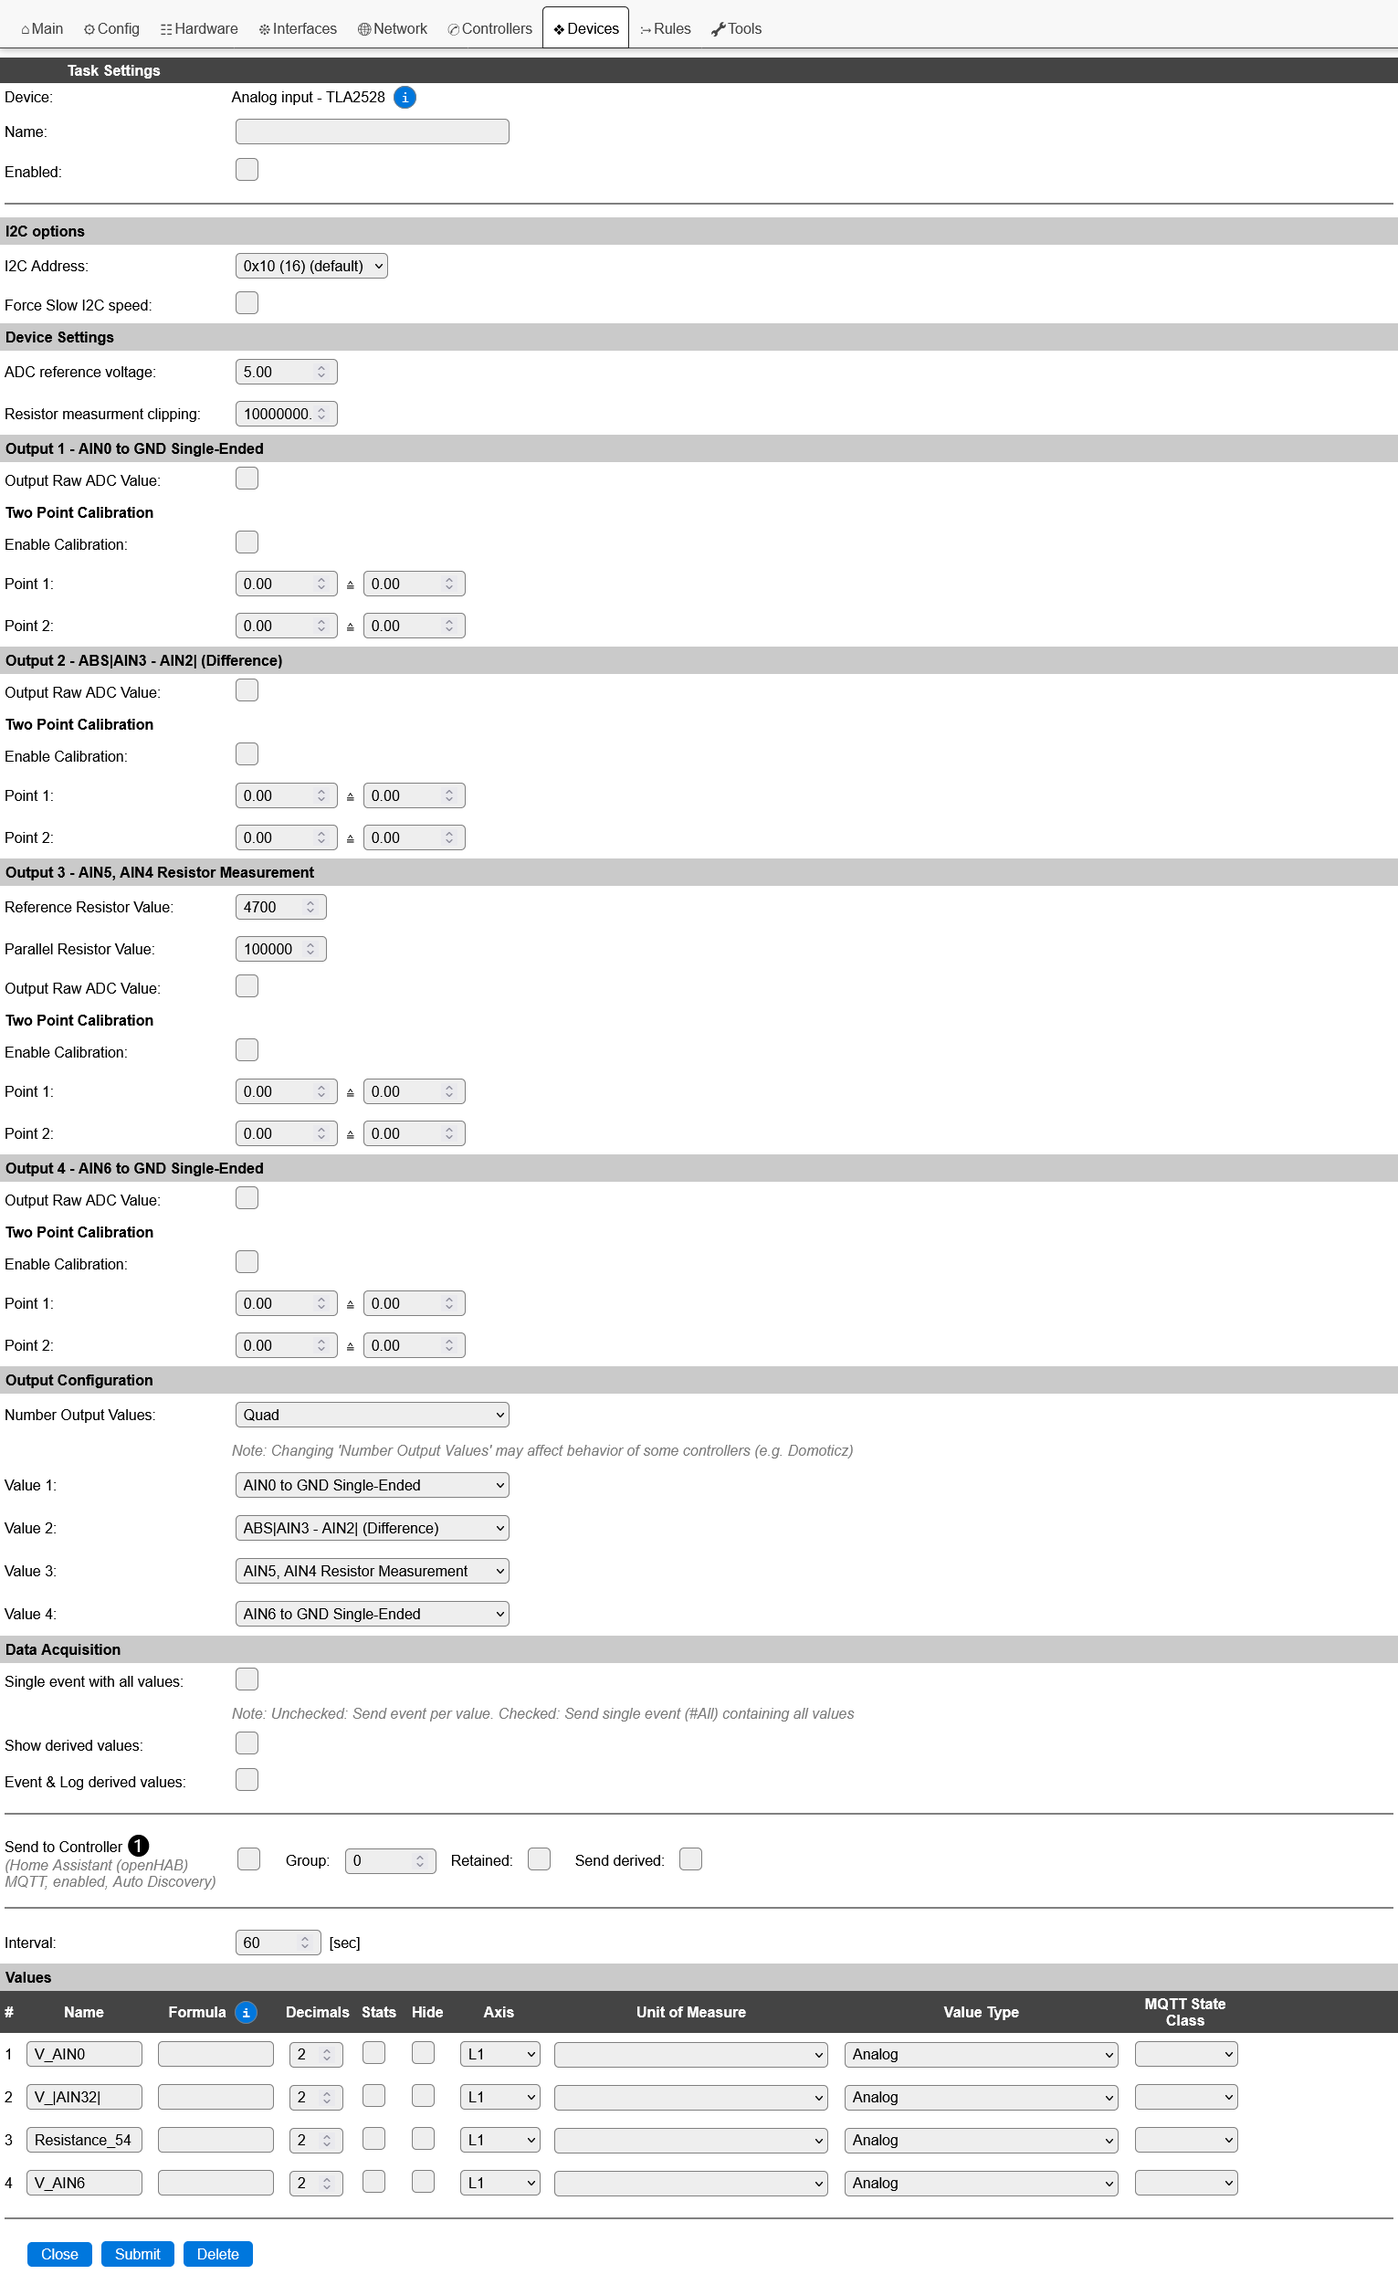
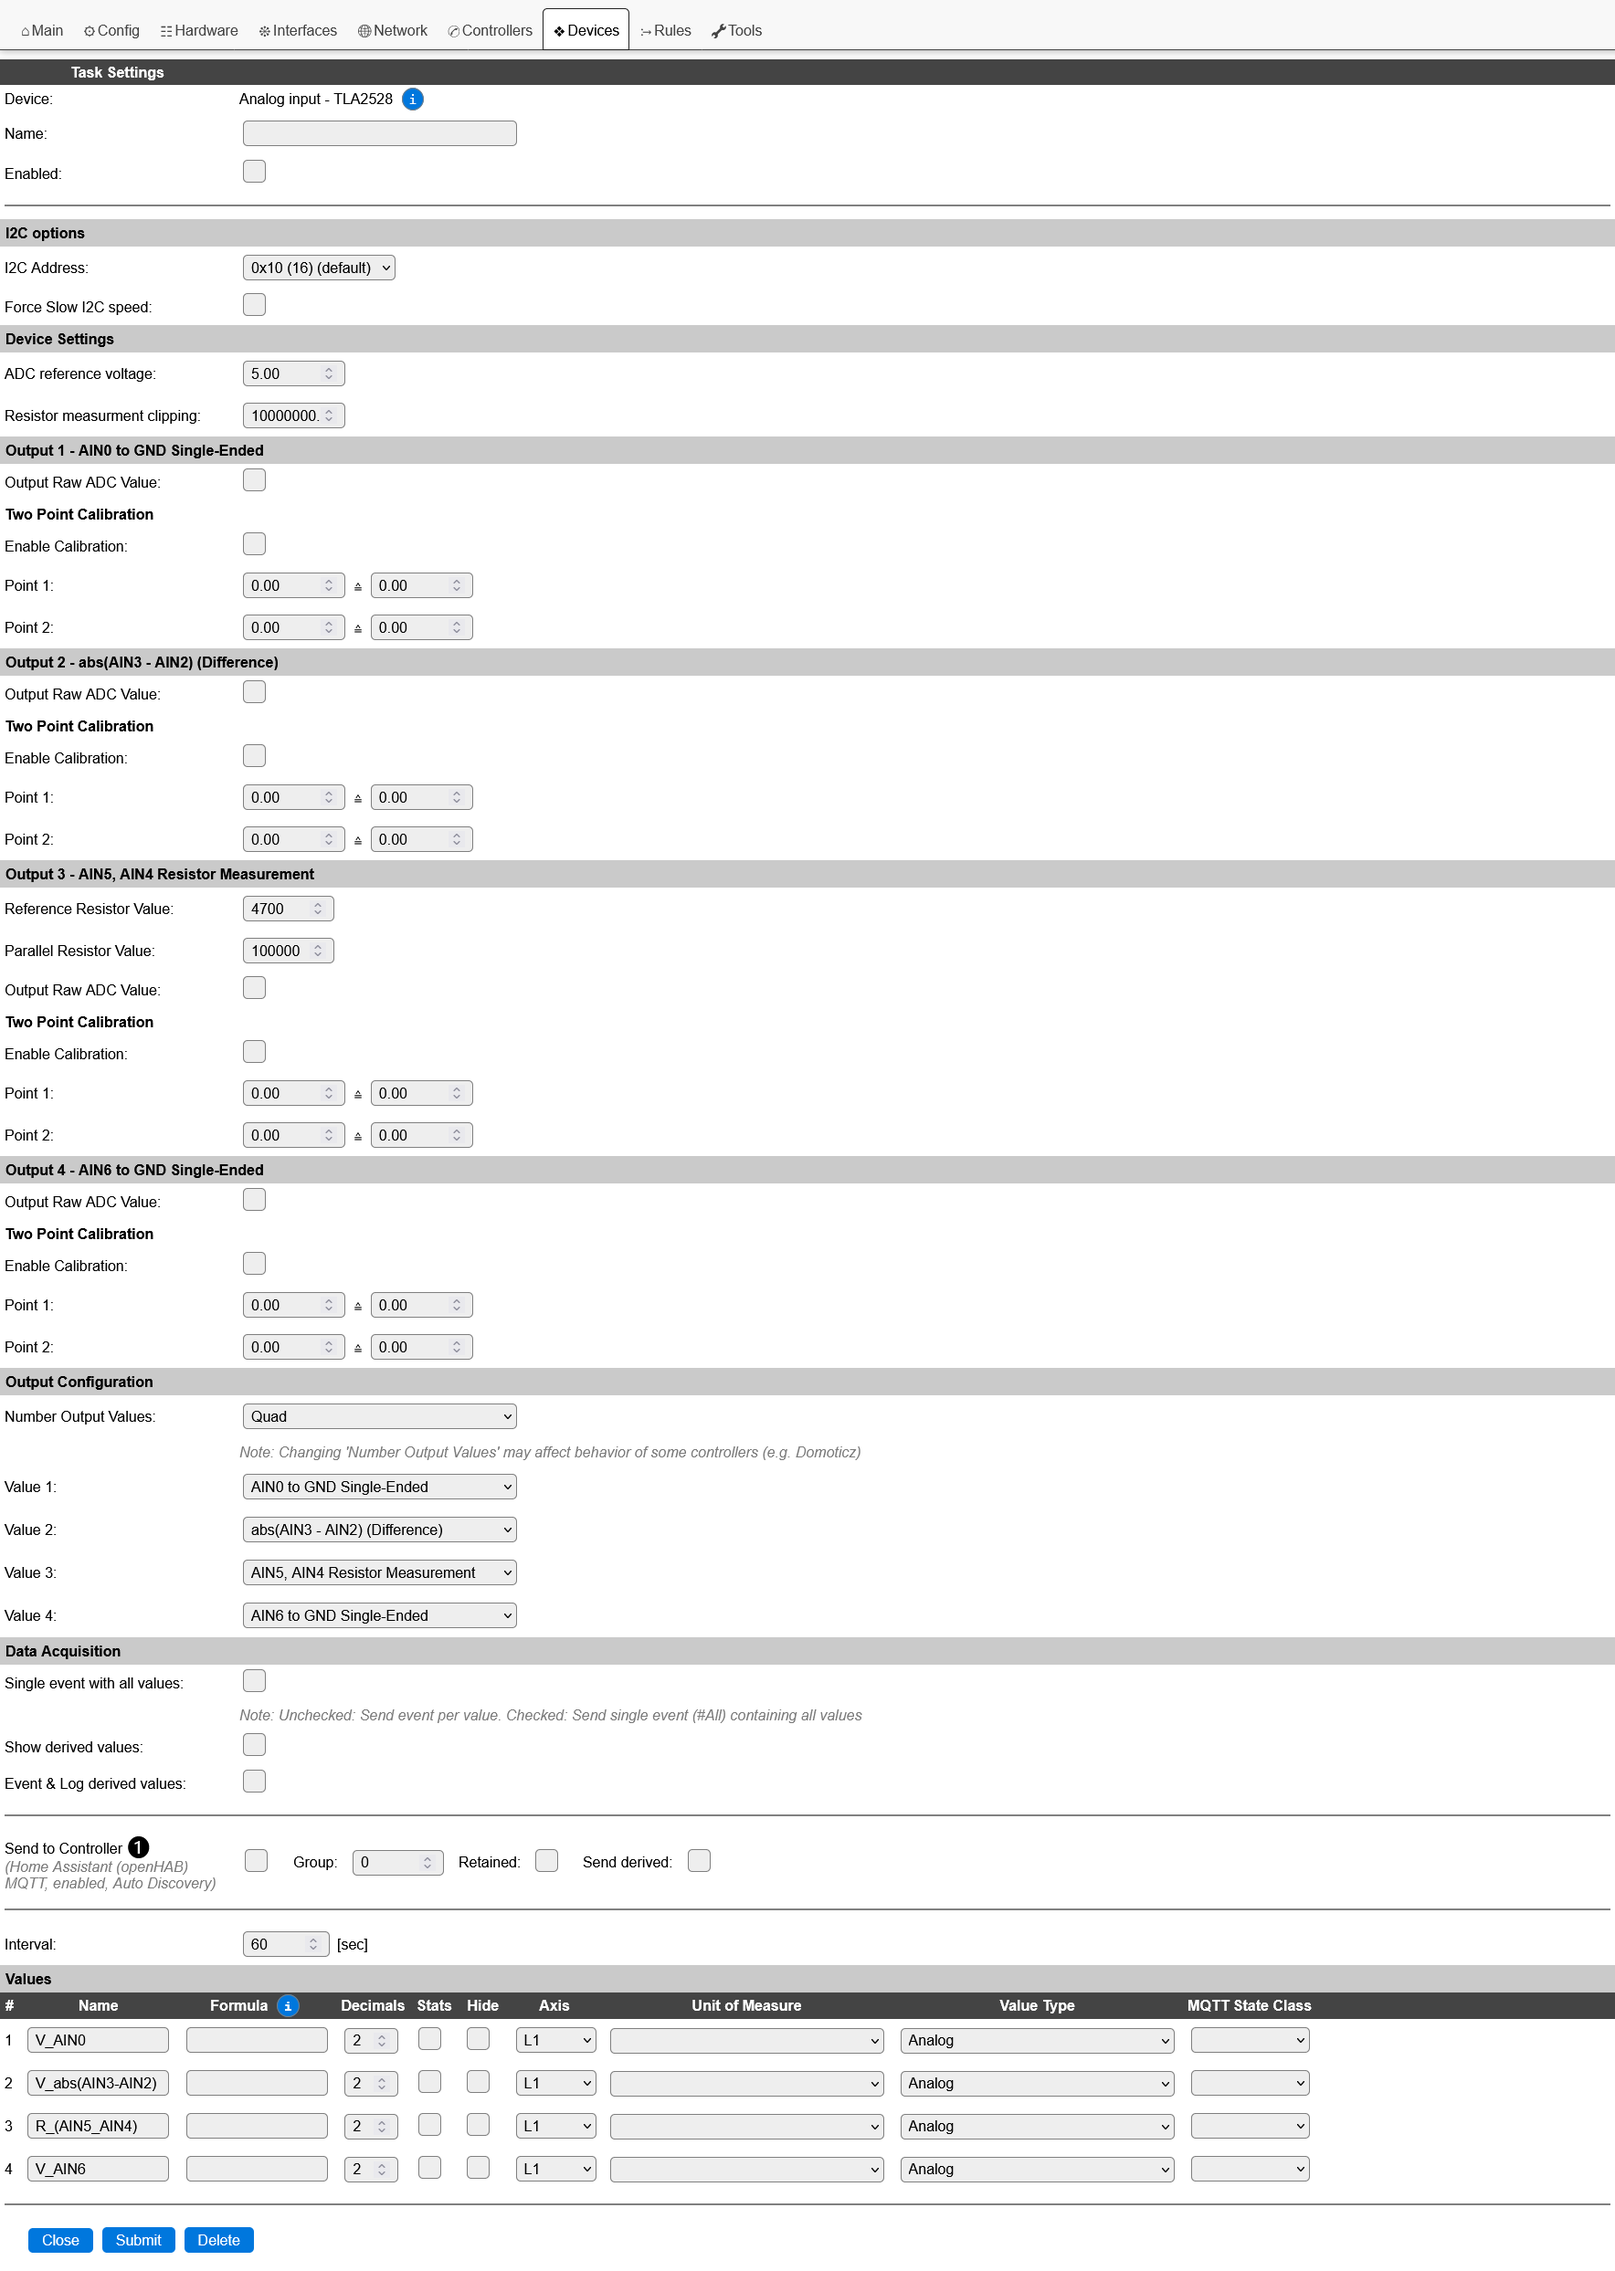
fixed typos

Changed region(s): [[0.0, 0.0, 1.0, 1.0]]

diff --git a/src/src/PluginStructs/P188_data_struct.cpp b/src/src/PluginStructs/P188_data_struct.cpp
@@ -14,10 +14,10 @@ const __FlashStringHelper* Plugin_188_output_mapping_name(uint8_t value_nr, bool
     F("AIN5 to GND Single-Ended"),          F("V_AIN5"),           // 5
     F("AIN6 to GND Single-Ended"),          F("V_AIN6"),           // 6
     F("AIN7 to GND Single-Ended"),          F("V_AIN7"),           // 7
-    F("ABS(AIN1 - AIN0) (Difference)"),     F("V_abs(AIN1_AIN0)"), // 8
-    F("ABS(AIN3 - AIN2) (Difference)"),     F("V_abs(AIN3_AIN2)"), // 9
-    F("ABS(AIN5 - AIN4) (Difference)"),     F("V_abs(AIN5_AIN4)"), // 10
-    F("ABS(AIN7 - AIN6) (Difference)"),     F("V_abs(AIN7_AIN6)"), // 11
+    F("abs(AIN1 - AIN0) (Difference)"),     F("V_abs(AIN1-AIN0)"), // 8
+    F("abs(AIN3 - AIN2) (Difference)"),     F("V_abs(AIN3-AIN2)"), // 9
+    F("abs(AIN5 - AIN4) (Difference)"),     F("V_abs(AIN5-AIN4)"), // 10
+    F("abs(AIN7 - AIN6) (Difference)"),     F("V_abs(AIN7-AIN6)"), // 11
 #ifdef P188_FEATURE_RESISTOR_MEASUREMENT
     F("AIN1, AIN0 Resistor Measurement"),   F("R_(AIN1_AIN0)"),    // 12
     F("AIN3, AIN2 Resistor Measurement"),   F("R_(AIN3_AIN2)"),    // 13
